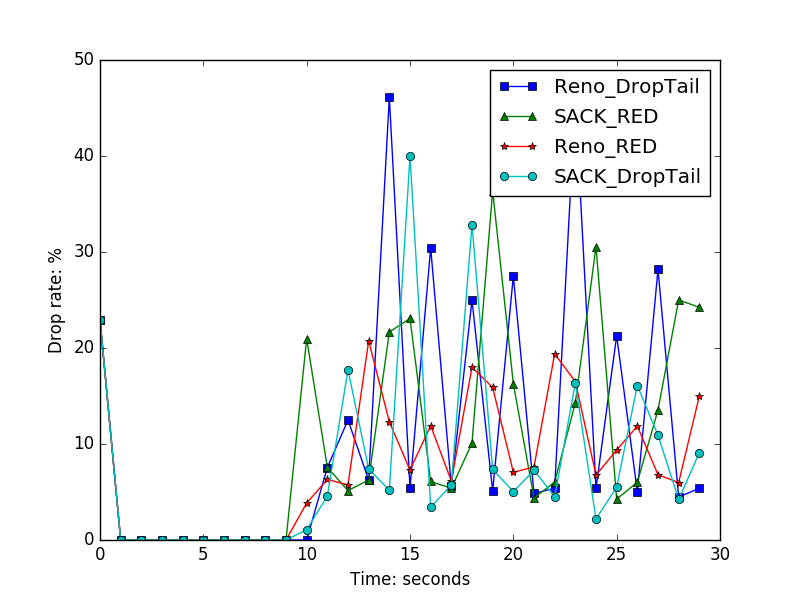
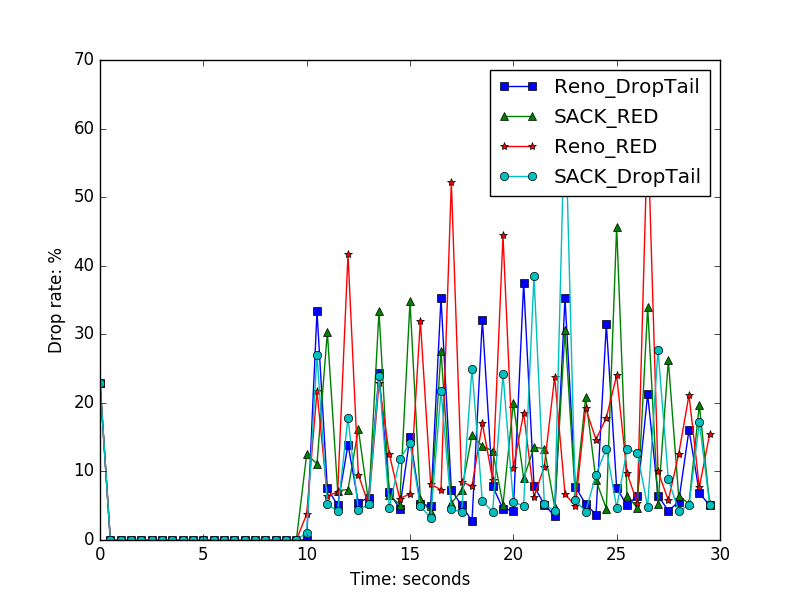
fix exp3

diff --git a/p3/exp3/run_exp3.py b/p3/exp3/run_exp3.py
@@ -44,8 +44,11 @@ def statistic(fname, duration):
             window.pop(seq)
     for i in range(duration):
         thpt.append(recv[i]*1040*8.0/1024)
+        thpt.append(recv[i+0.5]*1040*8.0/1024)
         latency.append(total_rtt[i]*1.0/recv[i] if recv[i] != 0 else 0)
+        latency.append(total_rtt[i+0.5]*1.0/recv[i+0.5] if recv[i+0.5] != 0 else 0)
         drop.append((send[i]-recv[i])*1.0/send[i]*100 if send[i] != 0 else 0)
+        drop.append((send[i+0.5]-recv[i+0.5])*1.0/send[i+0.5]*100 if send[i+0.5] != 0 else 0)
     return thpt, latency, drop
 
 def runExp1(duration):
@@ -71,8 +74,10 @@ def main():
     for k in stat:
         plt.figure(nfig)
         nfig += 1
+        x = range(2*duration)
+        x = [i/2.0 for i in x]
         for combination in stat[k]:
-            plt.plot(range(duration), stat[k][combination], color[combination], label = combination)
+            plt.plot(x, stat[k][combination], color[combination], label = combination)
         plt.xlabel('Time: seconds')
         if k == 'thpt':
             plt.ylabel('Throughpt: kbps')
